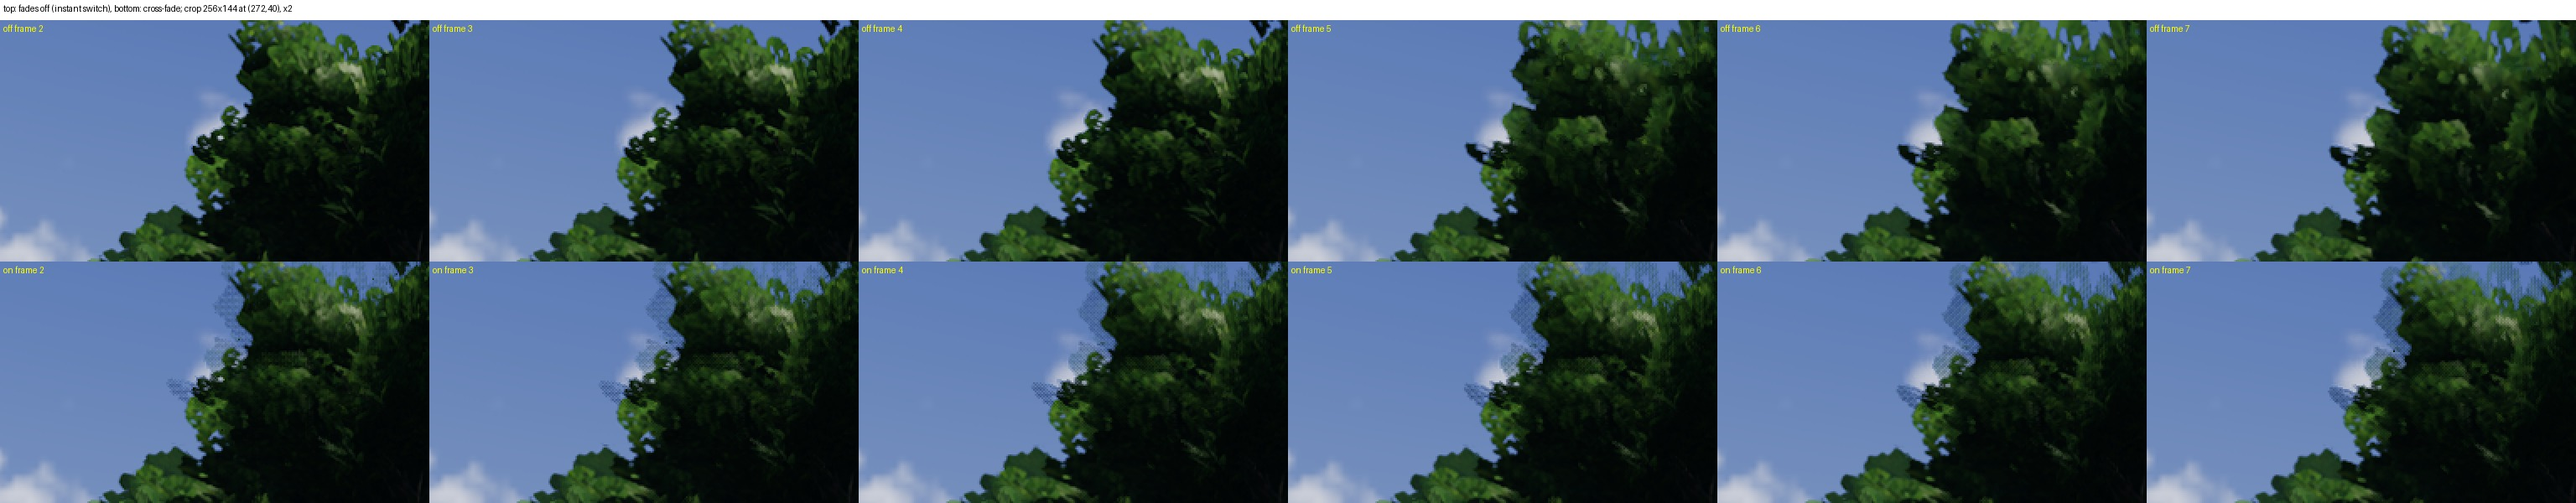
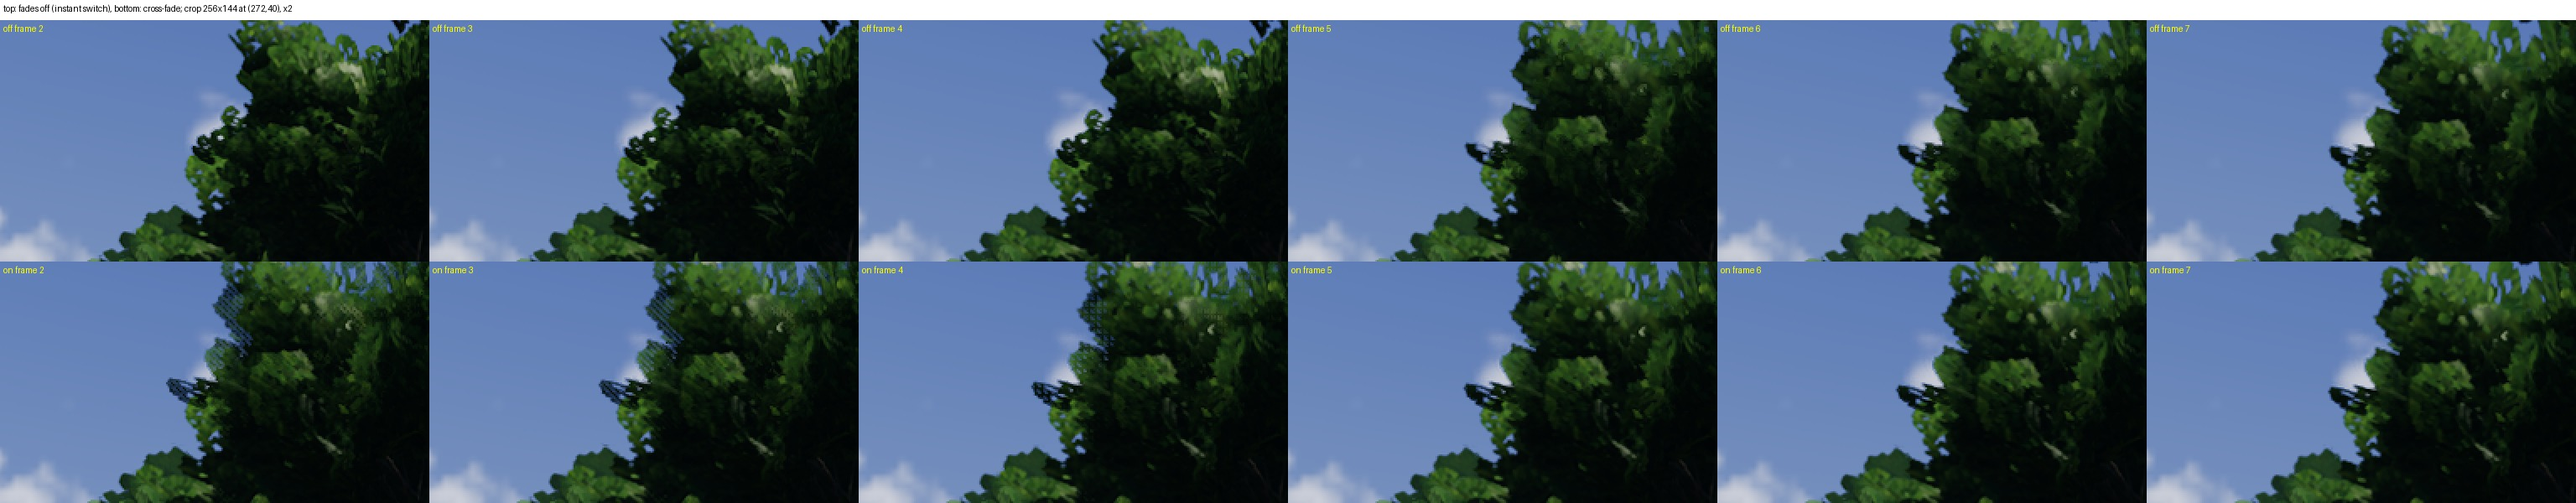
Round 47 done: tree band ends at each switch; old terrains keep instant switches (NoonValley on, MeadowDemo as saved for its golden views); golden_tree_bands probe; final proof strips, checks and notes

diff --git a/crates/misty_engine/src/terrain/trees.rs b/crates/misty_engine/src/terrain/trees.rs
@@ -69,12 +69,10 @@ pub struct TreeSettings {
     /// Meshes up to here, billboards (impostors) beyond (metres, × the LOD bias).
     pub billboard_start: f32,
     /// Cross-fade band at each switch (lighter mesh, impostor, draw distance) as a share of its
-    /// distance, just before it (0 = switch at once). Terrains saved before it existed get the
-    /// default; it is written only when changed.
-    #[serde(
-        default = "default_lod_fade",
-        skip_serializing_if = "is_default_lod_fade"
-    )]
+    /// distance, just before it (0 = switch at once). New terrains get [`DEFAULT_LOD_FADE`];
+    /// terrains saved before it existed load with 0 and keep switching at once, as LOD Groups
+    /// saved without a fade mode do (written whenever it is not 0).
+    #[serde(default, skip_serializing_if = "is_zero")]
     pub lod_fade: f32,
     pub cast_shadows: bool,
     /// 0.1..1: detail of the trees in the sun's shadow cascades (1 = each cascade's level of
@@ -92,15 +90,11 @@ fn is_one(v: &f32) -> bool {
     *v == 1.0
 }
 
-/// Tree Rendering ▸ LOD Fade of new (and older) terrains: a tenth of each switch distance.
+/// Tree Rendering ▸ LOD Fade of new terrains: a tenth of each switch distance.
 pub const DEFAULT_LOD_FADE: f32 = 0.1;
 
-fn default_lod_fade() -> f32 {
-    DEFAULT_LOD_FADE
-}
-
-fn is_default_lod_fade(v: &f32) -> bool {
-    *v == DEFAULT_LOD_FADE
+fn is_zero(v: &f32) -> bool {
+    *v == 0.0
 }
 
 impl Default for TreeSettings {
@@ -573,13 +567,14 @@ mod tests {
 
     #[test]
     fn lod_fade_loads_from_old_files_and_round_trips() {
-        // Saved before LOD Fade existed: the default band.
+        // Saved before LOD Fade existed: switches at once, as before.
         let old: TreeSettings =
             serde_json::from_str(r#"{"draw_distance":500.0,"lod_distance":40.0}"#).unwrap();
-        assert_eq!(old.lod_fade, DEFAULT_LOD_FADE);
-        // The default is not written, so unchanged terrains save as before.
+        assert_eq!(old.lod_fade, 0.0);
+        // New terrains cross-fade, and say so in the file.
         let text = serde_json::to_string(&TreeSettings::default()).unwrap();
-        assert!(!text.contains("lod_fade"), "{text}");
+        assert!(text.contains("\"lod_fade\":0.1"), "{text}");
+        assert_eq!(TreeSettings::default().lod_fade, DEFAULT_LOD_FADE);
         for v in [0.0, 0.25] {
             let s = TreeSettings {
                 lod_fade: v,

diff --git a/crates/misty_engine/src/render/golden_tests.rs b/crates/misty_engine/src/render/golden_tests.rs
@@ -302,3 +302,38 @@ fn golden_drift_tolerates_noise_and_catches_changes() {
     let small = downscale(&full, SCALE, SCALE);
     assert_eq!(small.get_pixel(0, 0).0, [10, 20, 30, 255]);
 }
+
+/// Trees of the golden views near a level switch (prints only): distance / switch distance
+/// of each tree in front of the camera within 15 % of a switch, per view and level. Used to
+/// keep the default tree cross-fade band (Tree Rendering ▸ LOD Fade) off the golden trees.
+#[test]
+#[ignore = "prints only"]
+fn golden_tree_bands() {
+    for (name, view, quality) in shots() {
+        let v = view();
+        let cam = v.camera.position;
+        let fwd = v.camera.forward();
+        for t in &v.terrains {
+            let s = &t.data.trees;
+            let lod_d = s.lod_distance * quality.lod_bias.max(0.1);
+            let bb_d = s.billboard_start.max(lod_d * 1.25) * quality.lod_bias.max(0.1);
+            let mut near: Vec<String> = Vec::new();
+            for i in &s.instances {
+                let p = t.position + crate::terrain::trees::local_position(&t.data, i);
+                let to = p + glam::Vec3::Y * 4.0 * i.height_scale - cam;
+                if to.normalize_or_zero().dot(fwd) < 0.6 {
+                    continue;
+                }
+                let d = to.length();
+                for (label, edge) in [("lod", lod_d), ("bb", bb_d)] {
+                    let r = d / edge;
+                    if (0.85..1.15).contains(&r) {
+                        near.push(format!("{label} {r:.3}"));
+                    }
+                }
+            }
+            near.sort();
+            eprintln!("{name}: {near:?}");
+        }
+    }
+}

diff --git a/docs/pending/r47-lod-fade.md b/docs/pending/r47-lod-fade.md
@@ -67,42 +67,18 @@ in the session scratchpad `r47/` (`env.sh`, `build_engine.sh`).
 - Harness (ignored): `noon_valley_tests::lod_fade_dolly` — camera dolly, fades off / on,
   pop pixels from the per-pixel second difference; `MISTY_NOON_GRASS=treefade:x`.
 
-## Status (paused 2026-11-12 18:25 at the coordinator's request)
+## Status (2026-11-13): done, mergeable
 
-Last commit is `[WIP]`: the tree band moved to *just before* each switch distance (as LOD
-Groups), not built or tested yet.
-
-Done and verified (on earlier commits):
-- Build, unit tests (lod, lod_group, trees, detail layers, tree shaders), GPU checks
-  (`lod_cross_fade_dolly...`: biggest one-step change 0.98 instant vs 0.08 faded, 0 holes;
-  `tree_gpu_cull_matches_the_cpu_lists` passes with fades).
-- fmt pass; clippy `--workspace --all-targets --release` 0 warnings (before the last two
-  commits; re-run).
-- Workspace tests (at c1bf8f69): editor 918/1 and engine 1537/1 failing; both failures pass
-  alone (`sample_saveloc::saveloc_demo_plays`, `world_partition::...a_big_cell_is_added...`:
-  load). Every `*_matches_its_generator` test passes with the Cross Fade sample rocks.
-- Timings (round A, main vs branch, same scenes, two interleaved rounds, High 1080p, sum of
-  GPU parts): NoonValley hero 13.45 → 13.46 ms, inside 11.78 → 11.97 (trees 1.75 → 1.85),
-  MeadowDemo behind 14.81 → 15.01 (trees 0.42 → 0.57), oak 12.62 → 12.93 (trees 0.21 → 0.45).
-  Later timing runs were swamped by other GPU load (hero 60-260 ms): ignore them.
-- Dolly proof (NoonValley treeline): biggest one-frame step of a switching 32 px block
-  41 levels instant → 5.7 faded; strips in `docs/screenshots/r47/`, frames in
-  `E:/MistyTargets/r47-shots/` (~0.9 GB, delete when done), tools `tools/lod_dolly_*.py`.
-
-Golden shots — the open problem:
-- With fades off (`MISTY_LOD_FADE=0`) the high shots pass: the TAA changes alone are fine.
-- Centred tree band (0.1): meadow_high_close 0.45/0.42 %, high_behind 0.68/1.13 %,
-  high_oak 0.71/1.39 % DRIFT (limit mean 0.5, changed 0.2 %). The oak in `oak` sits inside
-  High's band (lod 30 m × bias 1.5 = 45 m) and is drawn half LOD 0, half LOD 1.
-- Band beyond the switch (1d3f8bab): worse (high_oak 1.20/2.20 %, high_close 0.84 %,
-  low_behind 0.40 %) → the oak is just beyond 45 m.
-- Band before the switch (this WIP): should leave everything beyond each distance as on main;
-  not tested yet.
-
-Next:
-1. Build (`build_engine.sh`), run `variant.sh v3` (golden + treeline dolly) under the lock.
-2. If golden still drifts: narrower default tree band (0.05) or exclude... then explain the
-   remaining change (fading trees in a band are a mix of two levels) within tolerance.
-3. Re-run clippy, the lod/trees unit tests, `tree_gpu_cull_matches_the_cpu_lists`, golden 20.
-4. Final timings when the GPU is quiet (base_engine.exe vs new, interleaved, `times.sh`).
-5. Fix the progress.md Round 47 numbers/wording to the final band; drop `[WIP]`.
+- Tree band: just *before* each switch distance (the switch is complete at it, as a LOD
+  Group's band). New terrains get LOD Fade 0.1; terrains saved without the field load with 0
+  (instant, as before). NoonValley is switched on in its terrain file; MeadowDemo is left as
+  saved: its golden views have trees standing right on a switch (`golden_tree_bands`, an
+  ignored probe in golden_tests.rs, prints them: e.g. an oak at 0.995–1.0 × 45 m on High), and
+  any band, before, around or after the switch, redrew one of them half-and-half (golden
+  drift up to mean 1.2 / 2.4 %). Turning it on there needs new golden images (user's call).
+- Golden shots 20/20 within tolerance (largest mean 0.39, changed 0.03 %).
+- Dolly (NoonValley treeline, final build): biggest one-frame step of a switching block 40.9
+  → 4.3 levels; strips in `docs/screenshots/r47/` regenerated from the final build; scratch
+  frames deleted.
+- fmt pass, clippy 0 warnings, unit / GPU tests and timings: see the Round 47 section in
+  docs/progress.md.

diff --git a/docs/progress.md b/docs/progress.md
@@ -4350,11 +4350,15 @@ once: no blending, no sorting), and the shadow casters take the camera's state. 
   load as None, so old scenes look as before. A LOD Group over a virtual geometry mesh also
   fades out above its cull height. Opaque levels in a band draw with the cutout variant; the
   shadow casters get the same fade, so shadows switch with what the camera sees.
-- **Terrain trees**: Tree Rendering ▸ **LOD Fade** (default 0.1, written only when changed):
-  full mesh → lighter mesh → impostor fade over the band just beyond each set distance (the
-  finer level stays whole up to it), and impostors fade out by the draw distance; CPU lists
-  and the GPU cull do the same. Tree shadows keep their per-cascade level (texel size), which
-  never follows the camera's switch, and the cascades blend across borders.
+- **Terrain trees**: Tree Rendering ▸ **LOD Fade** (0.1 for new terrains): full mesh →
+  lighter mesh → impostor fade over the band just before each set distance (the switch is
+  complete at it, as a LOD Group's), and impostors fade out by the draw distance; CPU lists and
+  the GPU cull do the same. Terrains saved before it load with 0 (switch at once, as before),
+  like LOD Groups without a fade mode: NoonValley is switched on (0.1); MeadowDemo is left as
+  saved because its golden views have trees standing right on a switch distance (an oak at
+  45 m on High), which any fade band would redraw half-and-half — turn it on there when the
+  golden images may be retaken. Tree shadows keep their per-cascade level (texel size),
+  which never follows the camera's switch, and the cascades blend across borders.
 - **Detail meshes** thin out over the last tenth of their draw distance instead of vanishing.
 - **TAA**: the history keeps the nearest depth of its 3 × 3 neighbourhood and rejects itself
   only where it saw a nearer surface (something moved away), so the scattered pixels of a
@@ -4367,12 +4371,16 @@ once: no blending, no sorting), and the shadow casters take the camera's state. 
   (largest one-step change 0.98 of the object instant vs 0.08 cross-faded, no hole in the
   silhouette). Harness `lod_fade_dolly` (fades off / on, frames to disk) and
   `tools/lod_dolly_pops.py` / `tools/lod_dolly_strip.py`.
-- **Proof** (NoonValley `treeline`, 72 frames dollying back 0.25 m a frame, High 720p): in
-  the tree blocks that switch, the biggest one-frame change of a 32 px block's brightness was
-  41 levels (of 255) instant and 5.7 cross-faded; strips in `docs/screenshots/r47/`.
-- **Cost** (High 1920 × 1080, sum of the GPU parts, two interleaved rounds against main):
-  NoonValley hero 13.45 → 13.46 ms, inside 11.78 → 11.97 ms (trees 1.75 → 1.85), MeadowDemo
-  behind 14.81 → 15.01 ms (trees 0.42 → 0.57), oak 12.62 → 12.93 ms (trees 0.21 → 0.45).
+- **Proof** (NoonValley `treeline`, 72 frames dollying back 0.25 m a frame, High 720p, final
+  build): in the tree blocks that switch, the biggest one-frame change of a 32 px block's
+  brightness was 40.9 levels (of 255) instant and 4.3 cross-faded; strips in
+  `docs/screenshots/r47/`. Golden shots 20/20 (largest mean 0.39, changed 0.03 %).
+- **Cost** (High 1920 × 1080, sum of the GPU parts). Two interleaved rounds against main with
+  tree fades on in both scenes: NoonValley hero 13.45 → 13.46 ms, inside 11.78 → 11.97 ms
+  (trees 1.75 → 1.85), MeadowDemo behind 14.81 → 15.01 ms (trees 0.42 → 0.57), oak 12.62 →
+  12.93 ms (trees 0.21 → 0.45). Final build, one round on a loaded machine (±0.6 ms noise):
+  trees part NoonValley hero 0.71 → 0.71, inside 1.96 → 2.01 ms; MeadowDemo (tree fade off as
+  saved) unchanged at 0.42 / 0.21 ms.
 - **Left**: no time-based fade for camera cuts (a jump lands in the new state at once); the
   dither still shows as fine noise on a crown edge against the sky while it is in a band
   (TAA averages it, not fully, and not on the screen border).
